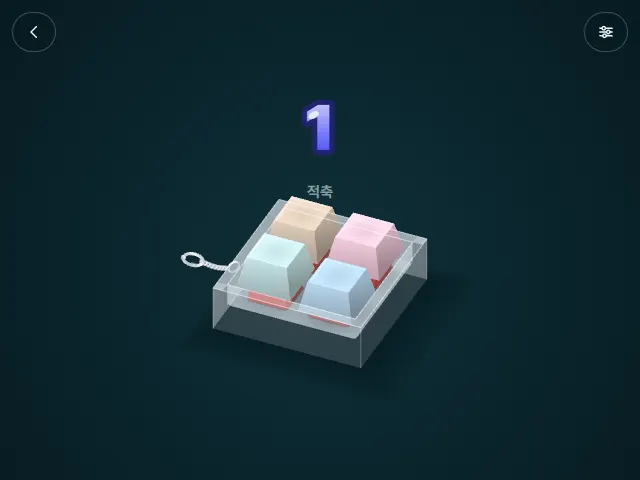
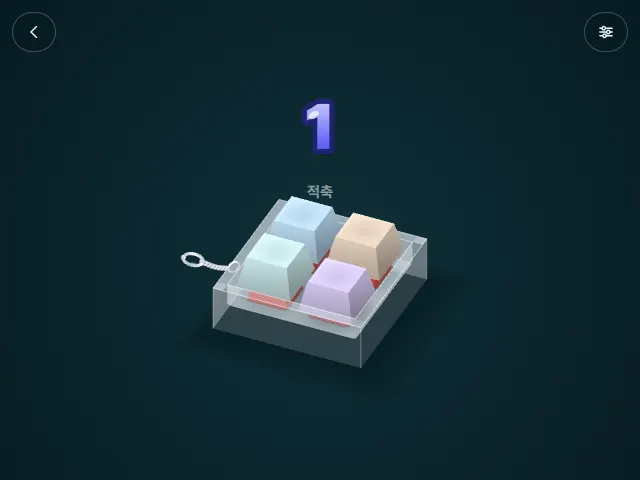
케이스 모서리 선이 키캡을 가로지르던 문제
윗테 네 변을 한 번에 그어 뒤쪽 변이 캡 위에 얹혔다. 뒤·왼쪽 변은 캡보다 먼저,
앞·오른쪽 변만 나중에 그린다. 오른쪽 윗테 면도 뒤쪽이라 먼저로 옮겼다.

Changed region(s): [[0.4062, 0.4062, 0.625, 0.625], [0.5, 0.1875, 0.5312, 0.2188]]

diff --git a/lib/engines/KeycapEngine.ts b/lib/engines/KeycapEngine.ts
@@ -459,10 +459,23 @@ export const createKeycapEngine: EngineFactory = (canvas, ctx0) => {
     wallX(-hx, -hy, hy, -CASE_H, RIM, shade(ACRYL, 0.78));
     flat(-hx, -hy, hx, -ihy, RIM, shade(ACRYL, 1.02));
     flat(-hx, -ihy, -ihx, hy, RIM, shade(ACRYL, 0.98));
+    ctx.globalAlpha = 0.3;
+    flat(ihx, -hy, hx, ihy, RIM, shade(ACRYL, 1));
     ctx.globalAlpha = 0.6;
     wallY(-ihy, -ihx, ihx, 0, RIM, shade(ACRYL, 0.88));
     wallX(-ihx, -ihy, ihy, 0, RIM, shade(ACRYL, 0.93));
     ctx.globalAlpha = 1;
+    // 뒤·왼쪽 모서리 — 키캡 뒤에 있으므로 캡보다 먼저 그린다
+    ctx.lineWidth = Math.max(1, S * 0.012); ctx.strokeStyle = "rgba(255,255,255,0.5)";
+    for (const [ex, ey] of [[hx, hy], [ihx, ihy]] as const) {
+      const back = P(-ex, -ey, RIM), right = P(ex, -ey, RIM), left = P(-ex, ey, RIM);
+      ctx.beginPath(); ctx.moveTo(left[0], left[1]); ctx.lineTo(back[0], back[1]); ctx.lineTo(right[0], right[1]); ctx.stroke();
+    }
+    ctx.strokeStyle = "rgba(255,255,255,0.28)";
+    {
+      const a = P(hx, -hy, RIM), b2 = P(hx, -hy, -CASE_H);
+      ctx.beginPath(); ctx.moveTo(a[0], a[1]); ctx.lineTo(b2[0], b2[1]); ctx.stroke();
+    }
     // 바닥판 — 스위치 소켓·핀·LED
     withTop(0, 0, 0, () => {
       roundRectPath(ctx, -ihx, -ihy, ihx * 2, ihy * 2, 0.07);
@@ -617,20 +630,18 @@ export const createKeycapEngine: EngineFactory = (canvas, ctx0) => {
     wallX(ihx, -ihy, ihy, 0, RIM, shade(ACRYL, 0.92));
     ctx.globalAlpha = 0.3;
     flat(-hx, ihy, hx, hy, RIM, shade(ACRYL, 1.05));
-    flat(ihx, -hy, hx, ihy, RIM, shade(ACRYL, 1));
     ctx.globalAlpha = 0.2;
     wallY(hy, -hx, hx, -CASE_H, RIM, shade(ACRYL, 0.88));
     wallX(hx, -hy, hy, -CASE_H, RIM, shade(ACRYL, 0.8));
     ctx.globalAlpha = 1;
-    // 아크릴 모서리 — 빛을 받아 또렷한 선
+    // 앞·오른쪽 모서리만 캡 위에 — 뒤쪽 모서리는 이미 캡보다 먼저 그렸다
     ctx.lineWidth = Math.max(1, S * 0.012); ctx.strokeStyle = "rgba(255,255,255,0.55)";
     for (const [ex, ey] of [[hx, hy], [ihx, ihy]] as const) {
-      ctx.beginPath();
-      const c1 = P(-ex, -ey, RIM), c2 = P(ex, -ey, RIM), c3 = P(ex, ey, RIM), c4 = P(-ex, ey, RIM);
-      ctx.moveTo(c1[0], c1[1]); ctx.lineTo(c2[0], c2[1]); ctx.lineTo(c3[0], c3[1]); ctx.lineTo(c4[0], c4[1]); ctx.closePath(); ctx.stroke();
+      const right = P(ex, -ey, RIM), corner = P(ex, ey, RIM), front = P(-ex, ey, RIM);
+      ctx.beginPath(); ctx.moveTo(right[0], right[1]); ctx.lineTo(corner[0], corner[1]); ctx.lineTo(front[0], front[1]); ctx.stroke();
     }
     ctx.strokeStyle = "rgba(255,255,255,0.3)";
-    for (const [ex, ey] of [[hx, -hy], [hx, hy], [-hx, hy]] as const) {
+    for (const [ex, ey] of [[hx, hy], [-hx, hy]] as const) {
       const a = P(ex, ey, RIM), b = P(ex, ey, -CASE_H);
       ctx.beginPath(); ctx.moveTo(a[0], a[1]); ctx.lineTo(b[0], b[1]); ctx.stroke();
     }
